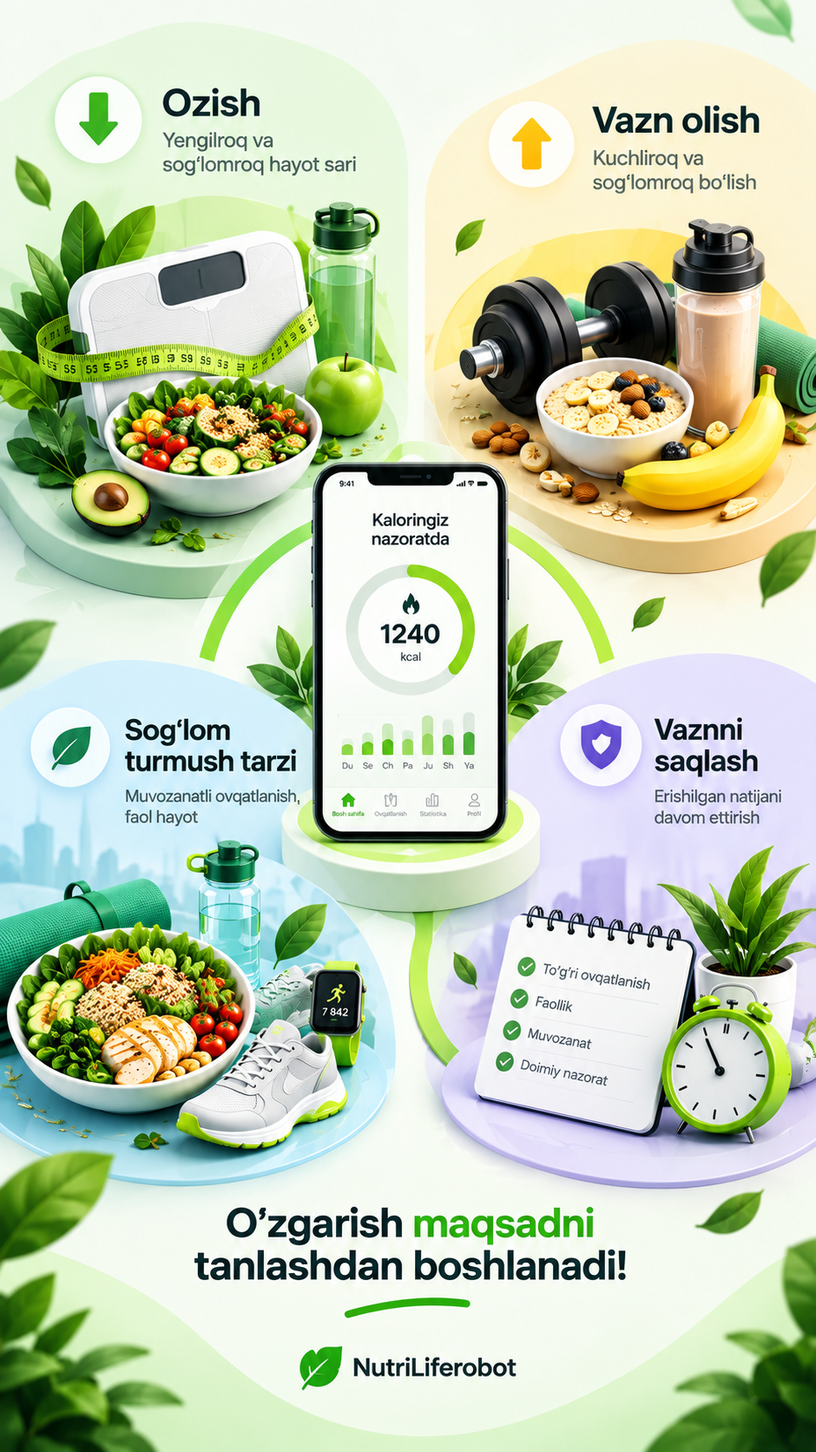
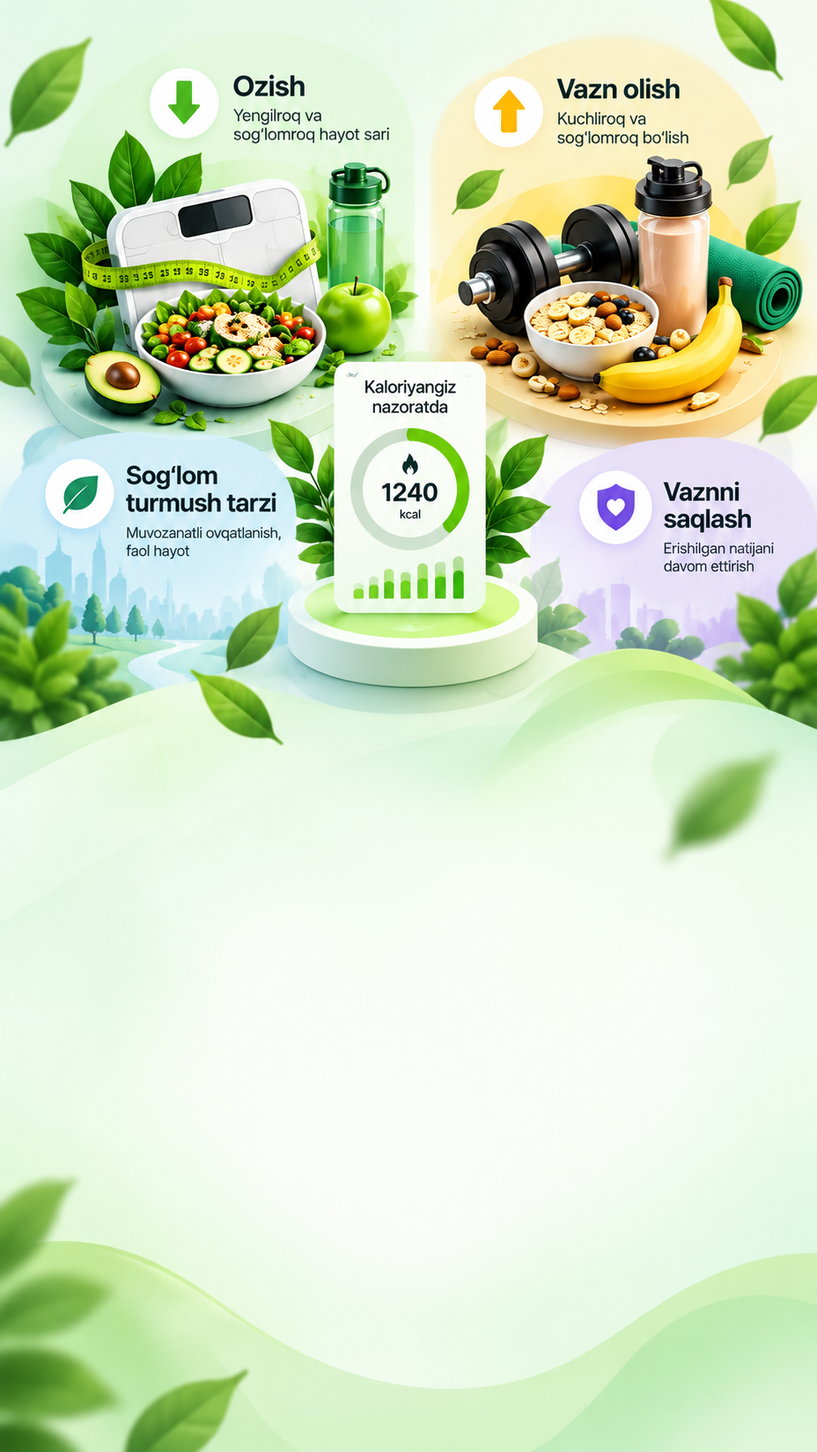
S5: O1 onboarding posteri uch tilda — intro.png yangilandi, intro-ru.png va intro-en.png qo'shildi, til bo'yicha tanlanadi; Handoff'dagi bajarilgan ishlar belgilandi

diff --git a/progress.html b/progress.html
@@ -135,7 +135,7 @@
 
   <header class="bosh">
     <div class="logo"><span>K</span><h1>Kalori — loyiha progressi</h1></div>
-    <p>Yangilangan: 2026-09-23 21:39 · manba: <code>sprints/</code> papkasi</p>
+    <p>Yangilangan: 2026-09-23 22:11 · manba: <code>sprints/</code> papkasi</p>
   </header>
 
   <section class="umumiy">
@@ -529,11 +529,11 @@ Nutrition Score · to'liq ma'lumot modeli · dizayn nafisligi · uch til.</p>
 
       <div class="blok">
          <h4>Hisobot</h4>
-         <ul class="hisobot"><li>2026-09-22: Telegram Mini App SDK ulandi (tema, orqaga tugmasi, safe area) va bot webhook <code>/api/bot</code> qo'shildi, jonli sinov deploy va webhook o'rnatishdan keyin (lib/telegram.ts, app/_components/TelegramUlagich.tsx, app/api/bot/route.ts, lib/services/bot.ts, scripts/bot-webhook.mjs)</li><li>2026-09-22: backend Railway'ga ko'chirildi, frontend Vercel'da qoldi (DECISIONS 2026-09-16 amalga oshirildi) (next.config.ts, lib/api-asos.ts, lib/services/sessiya.ts, .env.example)</li><li>2026-09-22: Railway'ga ko'chirish telefonda jonli sinovda tasdiqlandi, bot webhook Railway domeniga o'rnatildi</li><li>2026-09-22: galereyadan rasm tanlanganda to'liq ekranli E6 yuklash holati va telefondagi nusxa tahlilda ishlatilishi qo'shildi (app/_components/QoshishPaneli.tsx, app/_components/Tahlil.tsx, lib/services/rasm-yuklash.ts)</li><li>2026-09-22: W1 asosiy tugmasi matni &quot;Obuna bo'lish&quot; ga almashtirildi, ruscha/inglizcha tarjima qo'shildi (app/_components/Tariflar.tsx, lib/lugat/sozlar.ts)</li><li>2026-09-22: matn bilan tasvirlash ekranida izoh va placeholder taxminiy miqdor o'rniga og'irlikni (grammda) so'raydi, ruscha/inglizcha tarjimalar yangilandi (app/_components/Tasvirlash.tsx, lib/lugat/sozlar.ts)</li><li>2026-09-22: bot /start darhol tanishtiruv matni, &quot;Boshlash&quot; web_app tugmasi va til qatorini chiqaradi, ilovadagi ko'rinadigan nom &quot;NutriLifer&quot; ga almashtirildi (lib/services/bot.ts, lib/services/bot-api.ts, lib/services/foydalanuvchilar.ts, lib/lugat/sozlar.ts)</li><li>2026-09-22: bot /start avval til savoli va 3 ta til tugmasini chiqaradi, til tanlangach xabar tanishtiruv matni va &quot;Boshlash&quot; tugmasiga almashadi (lib/services/bot.ts)</li><li>2026-09-22: W1 paywall &quot;Davom etish&quot; tugmasiga prototipdagi pw-sweep yorug'lik effekti qo'shildi, faqat shu tugmada (app/globals.css, app/_components/Tugma.tsx, app/_components/Tariflar.tsx, DESIGN.md)</li><li>2026-09-22: W1 orqaga chiqishi (&quot;Hozir emas&quot; va Telegram/tizim orqaga tugmasi) kelgan sahifaga qaytadigan qilindi, Telegram Mini App yopilib ketmaydi (app/_components/Tariflar.tsx, lib/services/tarif-hisob.ts)</li><li>2026-09-22: P1 sahifasiga PRO uchun batafsil ovqatlanish statistikasi va haftalik ovqatlanish hisoboti prototipdagidek qurildi, FREE'da qulf kartasi (lib/services/statistika-hisob.ts, lib/services/statistika.ts, app/api/statistika/route.ts, app/_components/progress/OvqatStatistikasi.tsx, app/progress/page.tsx, app/progress/yukla.ts, lib/services/huquqlar.ts, lib/services/yozuv-hisob.ts, lib/lugat/sozlar.ts)</li><li>2026-09-22: W1 &quot;Davom etish&quot; tanlangan tarif yozilgan tayyor xabar bilan admin Telegram chatini ochadigan qilindi, tarif kartasida oylik narx katta ko'rsatiladi (app/_components/Tariflar.tsx, app/api/tariflar/route.ts, lib/services/tarif-hisob.ts, lib/telegram.ts, lib/lugat/sozlar.ts, .env.example)</li><li>2026-09-22: Home kunlik kaloriya doirasi 10% kichraytirildi (224 -&gt; 202px, halqa qalinligi o'zgarmadi), E8'da ham (app/_components/KunlikDoira.tsx)</li><li>2026-09-22: E7 natija ekranidan katta &quot;~kkal&quot; sarlavhasi olib tashlandi, AI taxmini belgisi qoldi (app/_components/Tahlil.tsx)</li><li>2026-09-22: E7 Kaloriya maydoni aksent bilan ajratildi — --aksent-fon foni, lime chegara, yorliq va flame belgisi, yangi --aksent-fon/--aksent-yorliq tokenlari (app/_components/YozuvFormasi.tsx, app/_components/Tahlil.tsx, app/globals.css, DESIGN.md)</li><li>2026-09-22: E4 taom qidiruvidan &quot;Oxirgi qo'shilganlar&quot; bo'limi olib tashlandi, ro'yxat faqat qidiruvda chiqadi (app/_components/TaomlarRoyxati.tsx, lib/lugat/sozlar.ts)</li><li>2026-09-22: E4 taom qidiruvi ekrani (/taomlar) to'liq olib tashlandi, taom sahifasi /taomlar/[id] Home taklifi uchun qoldi va &quot;Orqaga&quot; Home'ga qaytadi (app/taomlar/, app/_components/TaomlarRoyxati.tsx, app/_components/TaomKartasi.tsx, app/api/taomlar/route.ts, lib/lugat/sozlar.ts)</li><li>2026-09-22: fon vazifalari qo'shildi — obuna muddati bot xabarlari 5 bosqichda (7/3/1 kun oldin, tugagandan keyin, 2 kun keyin) va yetim rasmlarni tozalash, Railway'da FON_VAZIFALARI=1 bilan har daqiqada ishlaydigan rejalashtirgich (instrumentation.ts, lib/services/fon-vazifalari.ts, lib/services/obuna-xabar-hisob.ts, lib/services/bot.ts, prisma/schema.prisma, scripts/fon-vazifalari.mjs)</li><li>2026-09-22: bot nomi va tavsiflari uch tilda (standart o'zbekcha, ru, en) Bot API orqali o'rnatildi (scripts/bot-tavsif.mjs); bot yangi botga almashtirildi, webhook Railway domeniga qayta o'rnatildi</li><li>2026-09-22: bot chatidagi menyu tugmasi foydalanuvchi tilida — /start da til tanlanganda va Profil'da til o'zgarganda &quot;Kirish&quot; / &quot;Войти&quot; / &quot;Open app&quot; (lib/services/bot.ts, lib/services/foydalanuvchilar.ts, app/api/profil/sozlamalar/route.ts, lib/lugat/sozlar.ts)</li><li>2026-09-23: Ommaviy oferta, Foydalanish shartlari va Maxfiylik siyosati sahifalari uch tilda qo'shildi, Profil va W1 havolalari ularga ulandi (hujjatlar/, lib/hujjatlar.ts, lib/services/hujjat-hisob.ts, app/_components/Hujjat.tsx, app/oferta, app/shartlar, app/maxfiylik, app/_components/profil/Sozlamalar.tsx, app/_components/Tariflar.tsx, app/_components/onboarding/OnboardingOqimi.tsx, scripts/hujjat-yig.mjs)</li><li>2026-09-23: F5 hisobni o'chirish tasdig'i matn yozdirmaydi — &quot;Hisobni o'chirishni tasdiqlaysizmi?&quot; savoli va &quot;Ha, o'chirilsin&quot; tugmasi (app/_components/profil/HisobniOchirish.tsx, lib/lugat/sozlar.ts)</li><li>2026-09-23: onboarding O1 dagi Ommaviy oferta havolasi ilova ichida ochiladigan qilindi, orqaga qaytganda O1 joyida qoladi (app/_components/onboarding/OnboardingOqimi.tsx)</li><li>2026-09-23: profil sozlamalarida huquqiy hujjatlar va rasm mualliflari mayda havolalar qatoriga aylandi (doimiy chiziq bilan), &quot;Rasm mualliflari&quot; kartasi va birlik haqidagi izoh olib tashlandi (app/_components/profil/Sozlamalar.tsx, lib/lugat/sozlar.ts)</li><li>2026-09-23: prototip auditi — ~75 farq, ~30 tasi ataylab; tuzatildi: asosiy tugma lime, qorong'i matn/karta tokenlari (on-siyoh, karta-press, text-belgi), sarlavha shrifti Inter Tight, orqaga 24 px, E2 qatorlari va panel, E3 kamera ramkasi, E7 tavsiya joyi, E9 jami kartasi, E10 sarlavhasi, P1 streak/vazn formati/sanalar, P2 xato va xabar, P3 farq joyi, ProQulfi butunicha bosiladi, F3 18+ izohi, Profil Yordam (admin Telegram chati), skeletlar, O13/F1 matnlari, ~50 ru/en tarjima (app/_components/*, app/globals.css, lib/lugat/sozlar.ts, DESIGN.md, DECISIONS.md)</li><li>2026-09-23: skan limiti tugaganda tez bosish xatosi tuzatildi — limit serverdan kelguncha E2 qatorlari, Tasvirlash tugmasi va kameradagi rasmga olish/galereya o'chiq; limit tugagan bo'lsa kamera yoqilmaydi, xabar va FREE'da PRO ni ochish chiqadi; server nazorati o'zgarmadi (app/_components/QoshishPaneli.tsx, Tasvirlash.tsx, Kamera.tsx)</li></ul>
+         <ul class="hisobot"><li>2026-09-22: Telegram Mini App SDK ulandi (tema, orqaga tugmasi, safe area) va bot webhook <code>/api/bot</code> qo'shildi, jonli sinov deploy va webhook o'rnatishdan keyin (lib/telegram.ts, app/_components/TelegramUlagich.tsx, app/api/bot/route.ts, lib/services/bot.ts, scripts/bot-webhook.mjs)</li><li>2026-09-22: backend Railway'ga ko'chirildi, frontend Vercel'da qoldi (DECISIONS 2026-09-16 amalga oshirildi) (next.config.ts, lib/api-asos.ts, lib/services/sessiya.ts, .env.example)</li><li>2026-09-22: Railway'ga ko'chirish telefonda jonli sinovda tasdiqlandi, bot webhook Railway domeniga o'rnatildi</li><li>2026-09-22: galereyadan rasm tanlanganda to'liq ekranli E6 yuklash holati va telefondagi nusxa tahlilda ishlatilishi qo'shildi (app/_components/QoshishPaneli.tsx, app/_components/Tahlil.tsx, lib/services/rasm-yuklash.ts)</li><li>2026-09-22: W1 asosiy tugmasi matni &quot;Obuna bo'lish&quot; ga almashtirildi, ruscha/inglizcha tarjima qo'shildi (app/_components/Tariflar.tsx, lib/lugat/sozlar.ts)</li><li>2026-09-22: matn bilan tasvirlash ekranida izoh va placeholder taxminiy miqdor o'rniga og'irlikni (grammda) so'raydi, ruscha/inglizcha tarjimalar yangilandi (app/_components/Tasvirlash.tsx, lib/lugat/sozlar.ts)</li><li>2026-09-22: bot /start darhol tanishtiruv matni, &quot;Boshlash&quot; web_app tugmasi va til qatorini chiqaradi, ilovadagi ko'rinadigan nom &quot;NutriLifer&quot; ga almashtirildi (lib/services/bot.ts, lib/services/bot-api.ts, lib/services/foydalanuvchilar.ts, lib/lugat/sozlar.ts)</li><li>2026-09-22: bot /start avval til savoli va 3 ta til tugmasini chiqaradi, til tanlangach xabar tanishtiruv matni va &quot;Boshlash&quot; tugmasiga almashadi (lib/services/bot.ts)</li><li>2026-09-22: W1 paywall &quot;Davom etish&quot; tugmasiga prototipdagi pw-sweep yorug'lik effekti qo'shildi, faqat shu tugmada (app/globals.css, app/_components/Tugma.tsx, app/_components/Tariflar.tsx, DESIGN.md)</li><li>2026-09-22: W1 orqaga chiqishi (&quot;Hozir emas&quot; va Telegram/tizim orqaga tugmasi) kelgan sahifaga qaytadigan qilindi, Telegram Mini App yopilib ketmaydi (app/_components/Tariflar.tsx, lib/services/tarif-hisob.ts)</li><li>2026-09-22: P1 sahifasiga PRO uchun batafsil ovqatlanish statistikasi va haftalik ovqatlanish hisoboti prototipdagidek qurildi, FREE'da qulf kartasi (lib/services/statistika-hisob.ts, lib/services/statistika.ts, app/api/statistika/route.ts, app/_components/progress/OvqatStatistikasi.tsx, app/progress/page.tsx, app/progress/yukla.ts, lib/services/huquqlar.ts, lib/services/yozuv-hisob.ts, lib/lugat/sozlar.ts)</li><li>2026-09-22: W1 &quot;Davom etish&quot; tanlangan tarif yozilgan tayyor xabar bilan admin Telegram chatini ochadigan qilindi, tarif kartasida oylik narx katta ko'rsatiladi (app/_components/Tariflar.tsx, app/api/tariflar/route.ts, lib/services/tarif-hisob.ts, lib/telegram.ts, lib/lugat/sozlar.ts, .env.example)</li><li>2026-09-22: Home kunlik kaloriya doirasi 10% kichraytirildi (224 -&gt; 202px, halqa qalinligi o'zgarmadi), E8'da ham (app/_components/KunlikDoira.tsx)</li><li>2026-09-22: E7 natija ekranidan katta &quot;~kkal&quot; sarlavhasi olib tashlandi, AI taxmini belgisi qoldi (app/_components/Tahlil.tsx)</li><li>2026-09-22: E7 Kaloriya maydoni aksent bilan ajratildi — --aksent-fon foni, lime chegara, yorliq va flame belgisi, yangi --aksent-fon/--aksent-yorliq tokenlari (app/_components/YozuvFormasi.tsx, app/_components/Tahlil.tsx, app/globals.css, DESIGN.md)</li><li>2026-09-22: E4 taom qidiruvidan &quot;Oxirgi qo'shilganlar&quot; bo'limi olib tashlandi, ro'yxat faqat qidiruvda chiqadi (app/_components/TaomlarRoyxati.tsx, lib/lugat/sozlar.ts)</li><li>2026-09-22: E4 taom qidiruvi ekrani (/taomlar) to'liq olib tashlandi, taom sahifasi /taomlar/[id] Home taklifi uchun qoldi va &quot;Orqaga&quot; Home'ga qaytadi (app/taomlar/, app/_components/TaomlarRoyxati.tsx, app/_components/TaomKartasi.tsx, app/api/taomlar/route.ts, lib/lugat/sozlar.ts)</li><li>2026-09-22: fon vazifalari qo'shildi — obuna muddati bot xabarlari 5 bosqichda (7/3/1 kun oldin, tugagandan keyin, 2 kun keyin) va yetim rasmlarni tozalash, Railway'da FON_VAZIFALARI=1 bilan har daqiqada ishlaydigan rejalashtirgich (instrumentation.ts, lib/services/fon-vazifalari.ts, lib/services/obuna-xabar-hisob.ts, lib/services/bot.ts, prisma/schema.prisma, scripts/fon-vazifalari.mjs)</li><li>2026-09-22: bot nomi va tavsiflari uch tilda (standart o'zbekcha, ru, en) Bot API orqali o'rnatildi (scripts/bot-tavsif.mjs); bot yangi botga almashtirildi, webhook Railway domeniga qayta o'rnatildi</li><li>2026-09-22: bot chatidagi menyu tugmasi foydalanuvchi tilida — /start da til tanlanganda va Profil'da til o'zgarganda &quot;Kirish&quot; / &quot;Войти&quot; / &quot;Open app&quot; (lib/services/bot.ts, lib/services/foydalanuvchilar.ts, app/api/profil/sozlamalar/route.ts, lib/lugat/sozlar.ts)</li><li>2026-09-23: Ommaviy oferta, Foydalanish shartlari va Maxfiylik siyosati sahifalari uch tilda qo'shildi, Profil va W1 havolalari ularga ulandi (hujjatlar/, lib/hujjatlar.ts, lib/services/hujjat-hisob.ts, app/_components/Hujjat.tsx, app/oferta, app/shartlar, app/maxfiylik, app/_components/profil/Sozlamalar.tsx, app/_components/Tariflar.tsx, app/_components/onboarding/OnboardingOqimi.tsx, scripts/hujjat-yig.mjs)</li><li>2026-09-23: F5 hisobni o'chirish tasdig'i matn yozdirmaydi — &quot;Hisobni o'chirishni tasdiqlaysizmi?&quot; savoli va &quot;Ha, o'chirilsin&quot; tugmasi (app/_components/profil/HisobniOchirish.tsx, lib/lugat/sozlar.ts)</li><li>2026-09-23: onboarding O1 dagi Ommaviy oferta havolasi ilova ichida ochiladigan qilindi, orqaga qaytganda O1 joyida qoladi (app/_components/onboarding/OnboardingOqimi.tsx)</li><li>2026-09-23: profil sozlamalarida huquqiy hujjatlar va rasm mualliflari mayda havolalar qatoriga aylandi (doimiy chiziq bilan), &quot;Rasm mualliflari&quot; kartasi va birlik haqidagi izoh olib tashlandi (app/_components/profil/Sozlamalar.tsx, lib/lugat/sozlar.ts)</li><li>2026-09-23: prototip auditi — ~75 farq, ~30 tasi ataylab; tuzatildi: asosiy tugma lime, qorong'i matn/karta tokenlari (on-siyoh, karta-press, text-belgi), sarlavha shrifti Inter Tight, orqaga 24 px, E2 qatorlari va panel, E3 kamera ramkasi, E7 tavsiya joyi, E9 jami kartasi, E10 sarlavhasi, P1 streak/vazn formati/sanalar, P2 xato va xabar, P3 farq joyi, ProQulfi butunicha bosiladi, F3 18+ izohi, Profil Yordam (admin Telegram chati), skeletlar, O13/F1 matnlari, ~50 ru/en tarjima (app/_components/*, app/globals.css, lib/lugat/sozlar.ts, DESIGN.md, DECISIONS.md)</li><li>2026-09-23: skan limiti tugaganda tez bosish xatosi tuzatildi — limit serverdan kelguncha E2 qatorlari, Tasvirlash tugmasi va kameradagi rasmga olish/galereya o'chiq; limit tugagan bo'lsa kamera yoqilmaydi, xabar va FREE'da PRO ni ochish chiqadi; server nazorati o'zgarmadi (app/_components/QoshishPaneli.tsx, Tasvirlash.tsx, Kamera.tsx)</li><li>2026-09-23: O1 onboarding posteri uch tilda qo'shildi, til bo'yicha tanlanadi (public/onboarding/intro.png, public/onboarding/intro-ru.png, public/onboarding/intro-en.png, app/_components/onboarding/OnboardingOqimi.tsx)</li></ul>
        </div>
       <div class="blok">
          <h4>Handoff</h4>
-         <p class="handoff">Deploy: frontend Vercel, backend Railway (DECISIONS 2026-09-16, amalga oshirildi 2026-09-22): bot webhook,<br>eslatmalar va fon vazifalari Railway'dagi doimiy jarayonda ishlaydi. Paywall (W1) uchun paywall-tz.md tayyor.<br>Telefonda jonli sinov va bot webhook o'rnatish bajarildi (2026-09-22); Vercel'da faqat BACKEND_URL qoldi.<br>Prototip auditidan S5'ga qolgan eslatmalar (2026-09-22):<br>- F4 (obuna sahifasi): to'lovlar tarixi ro'yxati — har to'lov uchun summa, <code>sana · usul</code> va holat belgisi (prototip <code>screens-profile.jsx:291-307</code>); hozir faqat &quot;Hozircha to'lov yo'q&quot;. To'lov integratsiyasi taskida qurish.<br>- F5 (hisobni o'chirish, 2-qadam): izoh matni prototipda &quot;O'chirilgach Telegramga qaytariladi va bot orqali bitta xabar yuboriladi.&quot; — ilovada vaqtincha &quot;Hisob darhol o'chadi. Ilovani qayta ochsangiz, yangi hisob yaratiladi.&quot; Mini App SDK va bot ulangach prototip matniga qaytarish, o'chirishdan keyin ilovani yopish va bot xabari.<br>- ~~F4 &quot;Obunani bekor qilish&quot; tugmasi va tasdiq varag'i~~ — qurilmaydi (DECISIONS 2026-09-23).<br>- ~~Privacy/Terms matnida &quot;18+&quot; bandi~~ — yopildi (DECISIONS 2026-09-23: onboarding to'smaydi, hujjatda foydalanuvchi o'zi tasdiqlaydi).<br>W1 orqaga tugmasi: telefonda jonli sinovda tasdiqlandi (2026-09-22).<br>Prototip auditi (2026-09-23, S5 yopilgach): ~75 farq, ~30 tasi ataylab. Tuzatildi — asosiy tugma lime, qorong'i matn/karta tokenlari, sarlavha shrifti, orqaga 24 px, E2 qatorlari, E3 kamera ramkasi, E7 tavsiya joyi, E9 jami kartasi, P1 streak/vazn formati/sanalar, P2 xato va xabar, P3 farq joyi, ProQulfi butunicha bosiladi, F3 18+ izohi, Profil &quot;Yordam&quot; (admin Telegram chati), skeletlar, O13/F1 matnlari, ~50 ta ru/en tarjima. Qoldirilganlar va sabablari — DECISIONS 2026-09-23 &quot;prototip auditi&quot;. Telefonda jonli ko'rish: asosiy tugmalar lime bo'lgani (E5, E8, E10, F3, P2, onboarding) va jonli kamera ramkasi.<br>Keyingi: S5 yakuni — qolgan tasklar (to'lov, bildirishnomalar) keyinga qoldirilgan. 3-task jonli sinovi: deploydan keyin telefonda /start → til → Boshlash → ilova shu tilda ochilishi; Railway'da APP_URL Vercel https domeni bo'lishi shart (aks holda Boshlash tugmasi chiqmaydi).<br>P1 haftalik hisobot: ustunli ko'rinish jonli ma'lumotda (bu haftada 3+ kun yozuv) ko'rib chiqilsin.<br>Railway backend'ga ADMIN_TELEGRAM=NutrliLiferPro qo'shilishi kerak (foydalanuvchi qo'shadi) — aks holda W1 &quot;Davom etish&quot; &quot;To'lov tez orada&quot; varag'ini ochadi.<br>Fon vazifalari: Railway backend'da FON_VAZIFALARI=1 qo'shilgan (foydalanuvchi, 2026-09-22); deploydan keyin Railway logida &quot;Fon vazifalari —&quot; qatorlari chiqishini tekshirish. Dev foydalanuvchining telegram_id si soxta (1000000001) — bot sinovi uchun haqiqiy hisob kerak.<br>Bot almashtirilsa: Railway va .env da TELEGRAM_BOT_TOKEN, keyin scripts/bot-webhook.mjs https://nutrilife-production-e0a5.up.railway.app va scripts/bot-tavsif.mjs; @BotFather'da menyu tugmasi (URL https://nutrilife-khaki.vercel.app, Title &quot;Kirish&quot;) va avatar.<br>Hujjat matni o'zgarsa: hujjatlar/&lt;nom&gt;.&lt;til&gt;.md ni tahrirlab, <code>node scripts/hujjat-yig.mjs</code> ni ishga tushirish shart (lib/hujjatlar.ts avtomatik yaratiladi).</p>
+         <p class="handoff">Deploy: frontend Vercel, backend Railway (DECISIONS 2026-09-16, amalga oshirildi 2026-09-22): bot webhook,<br>eslatmalar va fon vazifalari Railway'dagi doimiy jarayonda ishlaydi. Paywall (W1) uchun paywall-tz.md tayyor.<br>Telefonda jonli sinov va bot webhook o'rnatish bajarildi (2026-09-22); Vercel'da BACKEND_URL qo'shildi (2026-09-23).<br>Prototip auditidan S5'ga qolgan eslatmalar (2026-09-22):<br>- F4 (obuna sahifasi): to'lovlar tarixi ro'yxati — har to'lov uchun summa, <code>sana · usul</code> va holat belgisi (prototip <code>screens-profile.jsx:291-307</code>); hozir faqat &quot;Hozircha to'lov yo'q&quot;. To'lov integratsiyasi taskida qurish.<br>- F5 (hisobni o'chirish, 2-qadam): izoh matni prototipda &quot;O'chirilgach Telegramga qaytariladi va bot orqali bitta xabar yuboriladi.&quot; — ilovada vaqtincha &quot;Hisob darhol o'chadi. Ilovani qayta ochsangiz, yangi hisob yaratiladi.&quot; Mini App SDK va bot ulangach prototip matniga qaytarish, o'chirishdan keyin ilovani yopish va bot xabari.<br>- ~~F4 &quot;Obunani bekor qilish&quot; tugmasi va tasdiq varag'i~~ — qurilmaydi (DECISIONS 2026-09-23).<br>- ~~Privacy/Terms matnida &quot;18+&quot; bandi~~ — yopildi (DECISIONS 2026-09-23: onboarding to'smaydi, hujjatda foydalanuvchi o'zi tasdiqlaydi).<br>W1 orqaga tugmasi: telefonda jonli sinovda tasdiqlandi (2026-09-22).<br>Prototip auditi (2026-09-23, S5 yopilgach): ~75 farq, ~30 tasi ataylab. Tuzatildi — asosiy tugma lime, qorong'i matn/karta tokenlari, sarlavha shrifti, orqaga 24 px, E2 qatorlari, E3 kamera ramkasi, E7 tavsiya joyi, E9 jami kartasi, P1 streak/vazn formati/sanalar, P2 xato va xabar, P3 farq joyi, ProQulfi butunicha bosiladi, F3 18+ izohi, Profil &quot;Yordam&quot; (admin Telegram chati), skeletlar, O13/F1 matnlari, ~50 ta ru/en tarjima. Qoldirilganlar va sabablari — DECISIONS 2026-09-23 &quot;prototip auditi&quot;. Telefonda jonli ko'rish (lime tugmalar, jonli kamera ramkasi) — bajarildi (2026-09-23).<br>Keyingi: S5 yakuni — qolgan tasklar (to'lov, bildirishnomalar) keyinga qoldirilgan. 3-task jonli sinovi (/start → til → Boshlash → ilova shu tilda ochilishi) — bajarildi (2026-09-23). Railway'da APP_URL Vercel https domeni bo'lishi shart (aks holda Boshlash tugmasi chiqmaydi).<br>P1 haftalik hisobot: ustunli ko'rinish jonli ma'lumotda (bu haftada 3+ kun yozuv) ko'rib chiqilsin.<br>Railway backend'ga ADMIN_TELEGRAM=NutrliLiferPro qo'shildi (2026-09-23) — bo'lmasa W1 &quot;Davom etish&quot; &quot;To'lov tez orada&quot; varag'ini ochadi.<br>Fon vazifalari: Railway backend'da FON_VAZIFALARI=1 qo'shilgan (foydalanuvchi, 2026-09-22); deploydan keyin Railway logida &quot;Fon vazifalari —&quot; qatorlari chiqishini tekshirish. Dev foydalanuvchining telegram_id si soxta (1000000001) — bot sinovi uchun haqiqiy hisob kerak.<br>Bot almashtirilsa: Railway va .env da TELEGRAM_BOT_TOKEN, keyin scripts/bot-webhook.mjs https://nutrilife-production-e0a5.up.railway.app va scripts/bot-tavsif.mjs; @BotFather'da menyu tugmasi (URL https://nutrilife-khaki.vercel.app, Title &quot;Kirish&quot;) va avatar.<br>Hujjat matni o'zgarsa: hujjatlar/&lt;nom&gt;.&lt;til&gt;.md ni tahrirlab, <code>node scripts/hujjat-yig.mjs</code> ni ishga tushirish shart (lib/hujjatlar.ts avtomatik yaratiladi).<br>O1 posteri uch tilda (2026-09-23): intro.png / intro-ru.png / intro-en.png, til bo'yicha tanlanadi. Onboarding'ni tugatgan dev hisobda ekran brauzerda ko'rilmadi — telefonda uch tilda ko'rish.</p>
        </div>
       <details class="qoshimcha">
          <summary>Qabul mezoni (6)</summary>

diff --git a/app/_components/onboarding/OnboardingOqimi.tsx b/app/_components/onboarding/OnboardingOqimi.tsx
@@ -12,7 +12,7 @@ import { QadamSarlavhasi } from "@/app/_components/onboarding/QadamSarlavhasi";
 import { ProTanishtiruv } from "@/app/_components/onboarding/ProTanishtiruv";
 import { RejaNatijasi } from "@/app/_components/onboarding/RejaNatijasi";
 import { SegmentTanlagich, Variantlar } from "@/app/_components/onboarding/Variantlar";
-import { k, type Kalit, type Tarjimon } from "@/lib/lugat/tarjima";
+import { k, type Kalit, type Tarjimon, type Til } from "@/lib/lugat/tarjima";
 import { apiSorov } from "@/lib/services/api-klient";
 import {
   afzallikBosildi,
@@ -75,6 +75,13 @@ type Saqlash =
 
 /** Jumlani havola atrofida ikkiga bo'lish uchun vaqtinchalik belgi — matnda uchramaydi. */
 const AJRATGICH = "§§";
+
+/** O1 posteri — rasm ichidagi yozuvlar tilga bog'liq, shuning uchun har til o'z rasmini oladi. */
+const INTRO_POSTER: Record<Til, string> = {
+  uz: "/onboarding/intro.png",
+  ru: "/onboarding/intro-ru.png",
+  en: "/onboarding/intro-en.png",
+};
 
 function saqlashMatni(saqlash: Saqlash, { t, erkin }: Tarjimon): string | null {
   switch (saqlash.holat) {
@@ -201,7 +208,7 @@ function Intro({
   xato: string | null;
   onBoshlash: () => void;
 }) {
-  const { t } = useTarjima();
+  const { t, til } = useTarjima();
   // Jumla ichidagi hujjat nomi havola bo'ladi: tarjima matni ajratgich bo'yicha ikkiga bo'linadi.
   const ofertaBolaklari = t("«Boshlash»ni bosish orqali {0} qabul qilasiz.", AJRATGICH).split(AJRATGICH);
   // Prototip O1: "Boshlash" bosilganda poster 320 ms da so'nib kattalashadi; saqlash
@@ -216,7 +223,7 @@ function Intro({
       }`}
     >
       <Image
-        src="/onboarding/intro.png"
+        src={INTRO_POSTER[til]}
         alt={t("Ozish, vazn olish, sog'lom turmush tarzi va vaznni saqlash")}
         fill
         priority

diff --git a/sprints/SPRINT-5-telegram.md b/sprints/SPRINT-5-telegram.md
@@ -60,12 +60,13 @@ avtomatik takroriy to'lov · admin paneli.
 - 2026-09-23: profil sozlamalarida huquqiy hujjatlar va rasm mualliflari mayda havolalar qatoriga aylandi (doimiy chiziq bilan), "Rasm mualliflari" kartasi va birlik haqidagi izoh olib tashlandi (app/_components/profil/Sozlamalar.tsx, lib/lugat/sozlar.ts)
 - 2026-09-23: prototip auditi — ~75 farq, ~30 tasi ataylab; tuzatildi: asosiy tugma lime, qorong'i matn/karta tokenlari (on-siyoh, karta-press, text-belgi), sarlavha shrifti Inter Tight, orqaga 24 px, E2 qatorlari va panel, E3 kamera ramkasi, E7 tavsiya joyi, E9 jami kartasi, E10 sarlavhasi, P1 streak/vazn formati/sanalar, P2 xato va xabar, P3 farq joyi, ProQulfi butunicha bosiladi, F3 18+ izohi, Profil Yordam (admin Telegram chati), skeletlar, O13/F1 matnlari, ~50 ru/en tarjima (app/_components/*, app/globals.css, lib/lugat/sozlar.ts, DESIGN.md, DECISIONS.md)
 - 2026-09-23: skan limiti tugaganda tez bosish xatosi tuzatildi — limit serverdan kelguncha E2 qatorlari, Tasvirlash tugmasi va kameradagi rasmga olish/galereya o'chiq; limit tugagan bo'lsa kamera yoqilmaydi, xabar va FREE'da PRO ni ochish chiqadi; server nazorati o'zgarmadi (app/_components/QoshishPaneli.tsx, Tasvirlash.tsx, Kamera.tsx)
+- 2026-09-23: O1 onboarding posteri uch tilda qo'shildi, til bo'yicha tanlanadi (public/onboarding/intro.png, public/onboarding/intro-ru.png, public/onboarding/intro-en.png, app/_components/onboarding/OnboardingOqimi.tsx)
 
 ## Handoff
 
 Deploy: frontend Vercel, backend Railway (DECISIONS 2026-09-16, amalga oshirildi 2026-09-22): bot webhook,
 eslatmalar va fon vazifalari Railway'dagi doimiy jarayonda ishlaydi. Paywall (W1) uchun paywall-tz.md tayyor.
-Telefonda jonli sinov va bot webhook o'rnatish bajarildi (2026-09-22); Vercel'da faqat BACKEND_URL qoldi.
+Telefonda jonli sinov va bot webhook o'rnatish bajarildi (2026-09-22); Vercel'da BACKEND_URL qo'shildi (2026-09-23).
 
 Prototip auditidan S5'ga qolgan eslatmalar (2026-09-22):
 - F4 (obuna sahifasi): to'lovlar tarixi ro'yxati — har to'lov uchun summa, `sana · usul` va holat belgisi (prototip `screens-profile.jsx:291-307`); hozir faqat "Hozircha to'lov yo'q". To'lov integratsiyasi taskida qurish.
@@ -75,19 +76,21 @@ Prototip auditidan S5'ga qolgan eslatmalar (2026-09-22):
 
 W1 orqaga tugmasi: telefonda jonli sinovda tasdiqlandi (2026-09-22).
 
-Prototip auditi (2026-09-23, S5 yopilgach): ~75 farq, ~30 tasi ataylab. Tuzatildi — asosiy tugma lime, qorong'i matn/karta tokenlari, sarlavha shrifti, orqaga 24 px, E2 qatorlari, E3 kamera ramkasi, E7 tavsiya joyi, E9 jami kartasi, P1 streak/vazn formati/sanalar, P2 xato va xabar, P3 farq joyi, ProQulfi butunicha bosiladi, F3 18+ izohi, Profil "Yordam" (admin Telegram chati), skeletlar, O13/F1 matnlari, ~50 ta ru/en tarjima. Qoldirilganlar va sabablari — DECISIONS 2026-09-23 "prototip auditi". Telefonda jonli ko'rish: asosiy tugmalar lime bo'lgani (E5, E8, E10, F3, P2, onboarding) va jonli kamera ramkasi.
+Prototip auditi (2026-09-23, S5 yopilgach): ~75 farq, ~30 tasi ataylab. Tuzatildi — asosiy tugma lime, qorong'i matn/karta tokenlari, sarlavha shrifti, orqaga 24 px, E2 qatorlari, E3 kamera ramkasi, E7 tavsiya joyi, E9 jami kartasi, P1 streak/vazn formati/sanalar, P2 xato va xabar, P3 farq joyi, ProQulfi butunicha bosiladi, F3 18+ izohi, Profil "Yordam" (admin Telegram chati), skeletlar, O13/F1 matnlari, ~50 ta ru/en tarjima. Qoldirilganlar va sabablari — DECISIONS 2026-09-23 "prototip auditi". Telefonda jonli ko'rish (lime tugmalar, jonli kamera ramkasi) — bajarildi (2026-09-23).
 
-Keyingi: S5 yakuni — qolgan tasklar (to'lov, bildirishnomalar) keyinga qoldirilgan. 3-task jonli sinovi: deploydan keyin telefonda /start → til → Boshlash → ilova shu tilda ochilishi; Railway'da APP_URL Vercel https domeni bo'lishi shart (aks holda Boshlash tugmasi chiqmaydi).
+Keyingi: S5 yakuni — qolgan tasklar (to'lov, bildirishnomalar) keyinga qoldirilgan. 3-task jonli sinovi (/start → til → Boshlash → ilova shu tilda ochilishi) — bajarildi (2026-09-23). Railway'da APP_URL Vercel https domeni bo'lishi shart (aks holda Boshlash tugmasi chiqmaydi).
 
 P1 haftalik hisobot: ustunli ko'rinish jonli ma'lumotda (bu haftada 3+ kun yozuv) ko'rib chiqilsin.
 
-Railway backend'ga ADMIN_TELEGRAM=NutrliLiferPro qo'shilishi kerak (foydalanuvchi qo'shadi) — aks holda W1 "Davom etish" "To'lov tez orada" varag'ini ochadi.
+Railway backend'ga ADMIN_TELEGRAM=NutrliLiferPro qo'shildi (2026-09-23) — bo'lmasa W1 "Davom etish" "To'lov tez orada" varag'ini ochadi.
 
 Fon vazifalari: Railway backend'da FON_VAZIFALARI=1 qo'shilgan (foydalanuvchi, 2026-09-22); deploydan keyin Railway logida "Fon vazifalari —" qatorlari chiqishini tekshirish. Dev foydalanuvchining telegram_id si soxta (1000000001) — bot sinovi uchun haqiqiy hisob kerak.
 
 Bot almashtirilsa: Railway va .env da TELEGRAM_BOT_TOKEN, keyin scripts/bot-webhook.mjs https://nutrilife-production-e0a5.up.railway.app va scripts/bot-tavsif.mjs; @BotFather'da menyu tugmasi (URL https://nutrilife-khaki.vercel.app, Title "Kirish") va avatar.
 
 Hujjat matni o'zgarsa: hujjatlar/<nom>.<til>.md ni tahrirlab, `node scripts/hujjat-yig.mjs` ni ishga tushirish shart (lib/hujjatlar.ts avtomatik yaratiladi).
+
+O1 posteri uch tilda (2026-09-23): intro.png / intro-ru.png / intro-en.png, til bo'yicha tanlanadi. Onboarding'ni tugatgan dev hisobda ekran brauzerda ko'rilmadi — telefonda uch tilda ko'rish.
 
 ---
 
